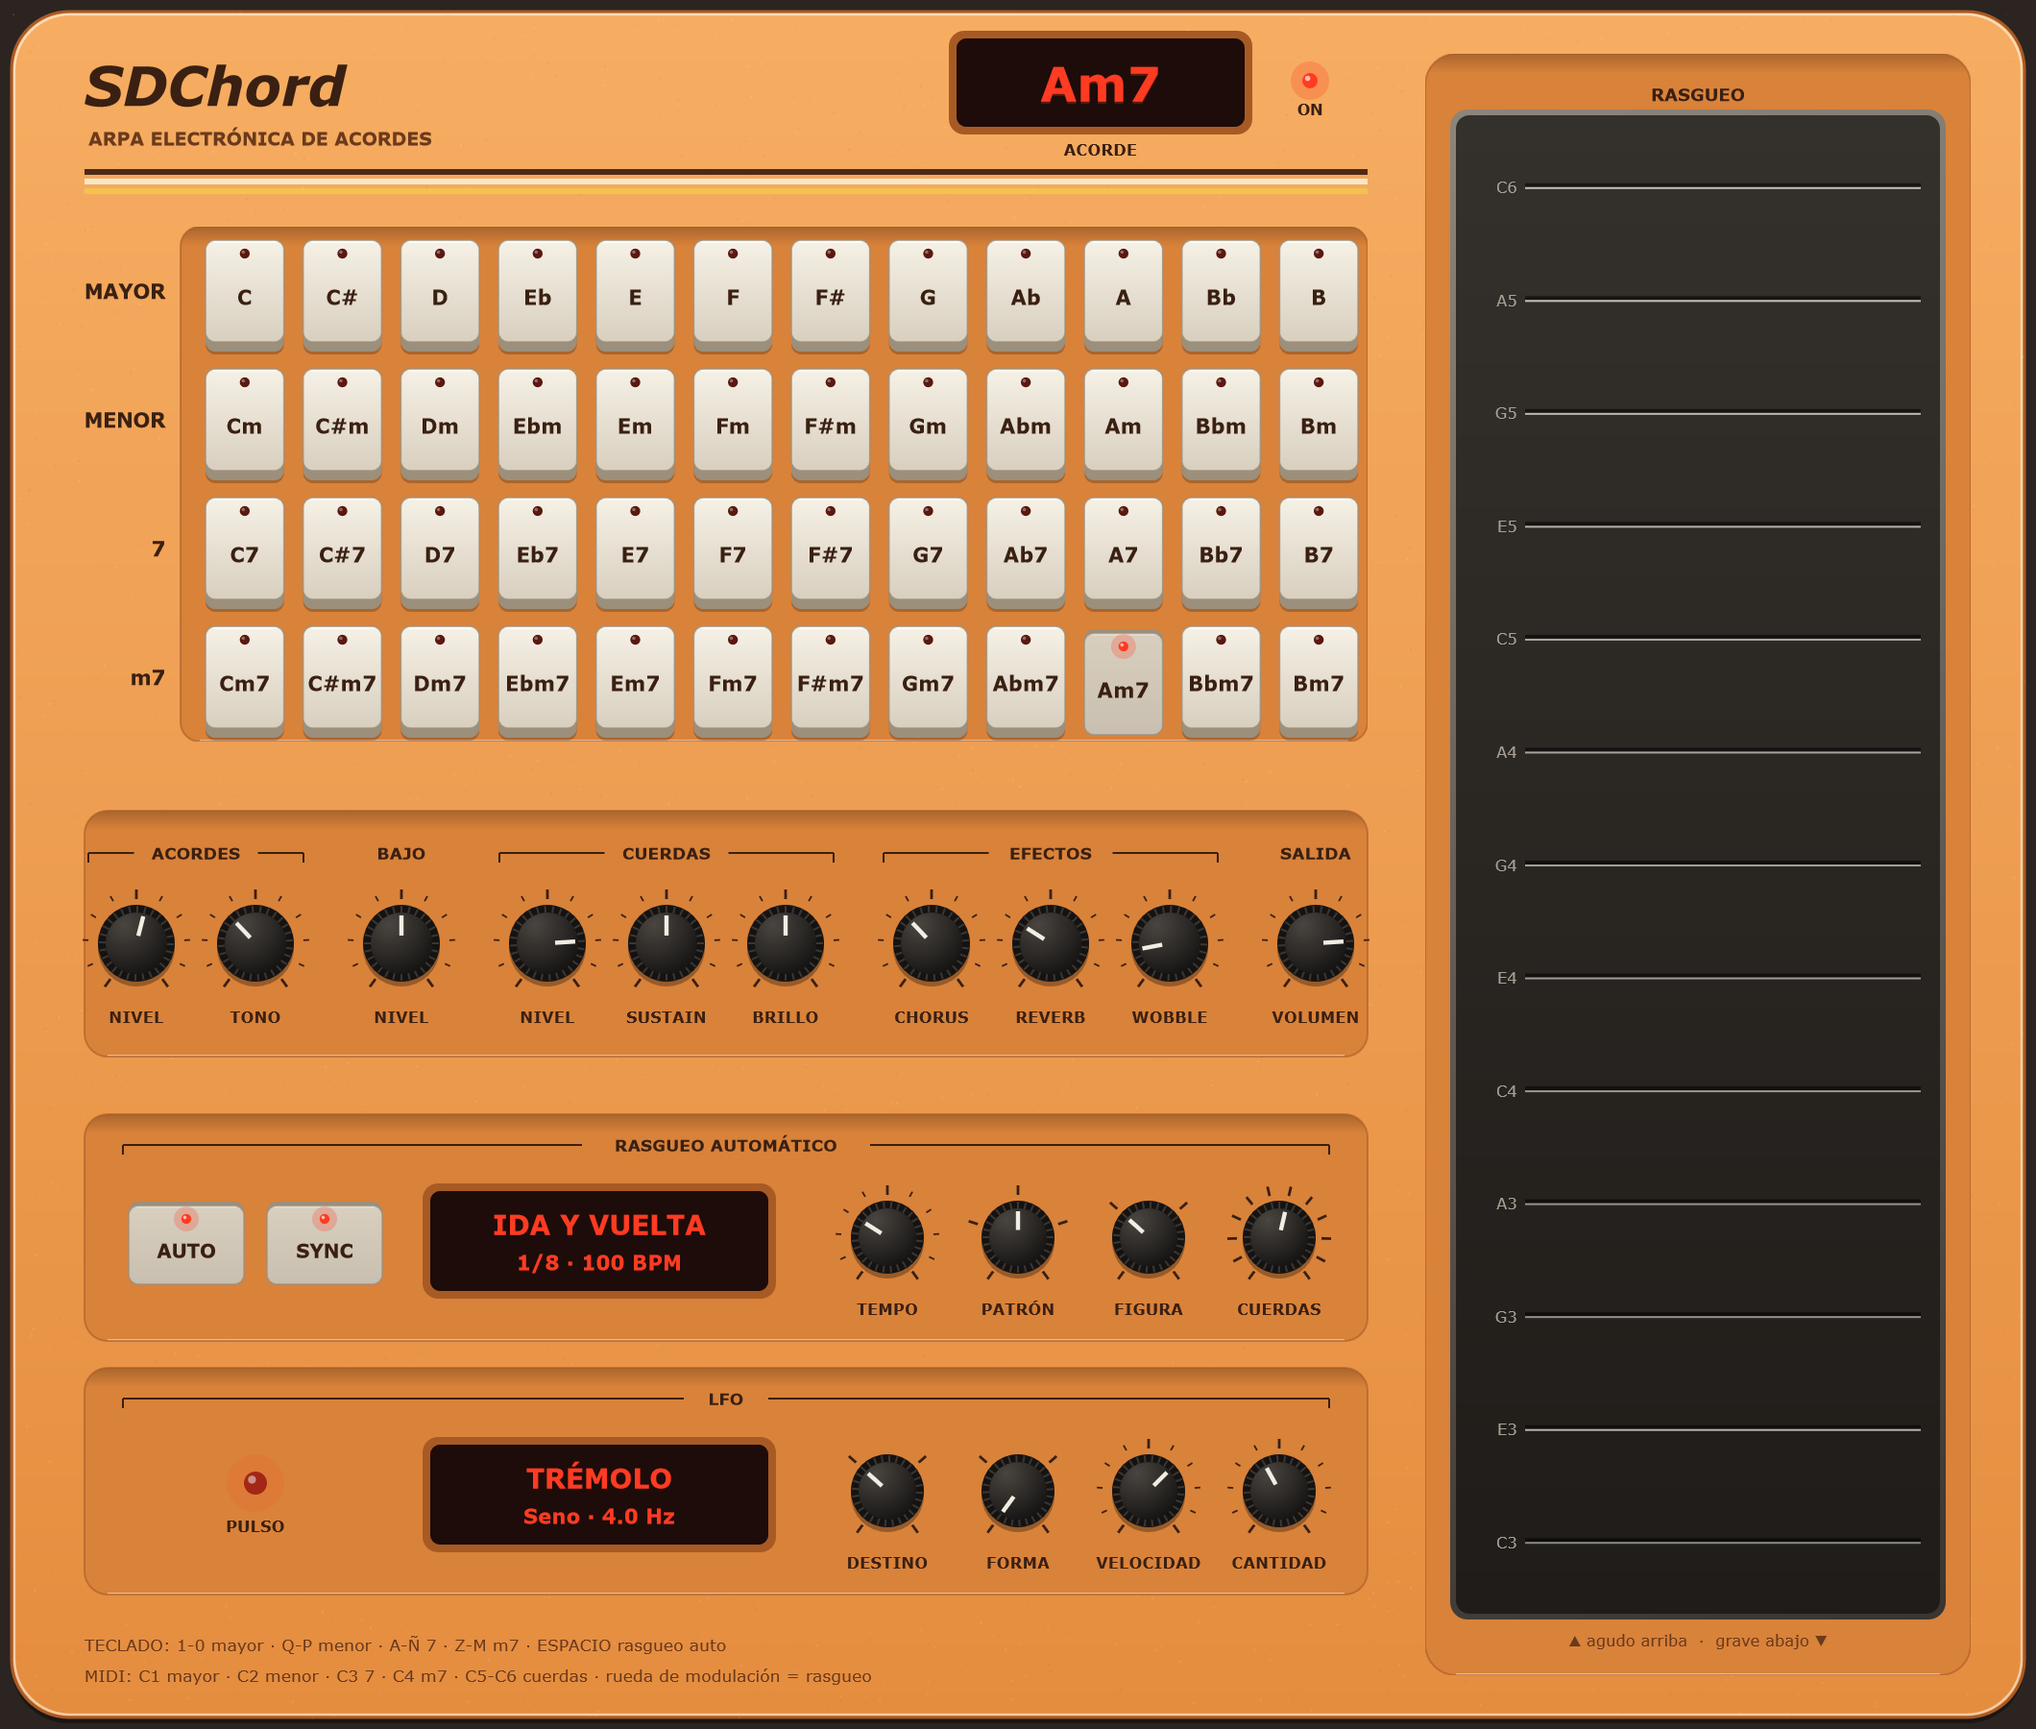
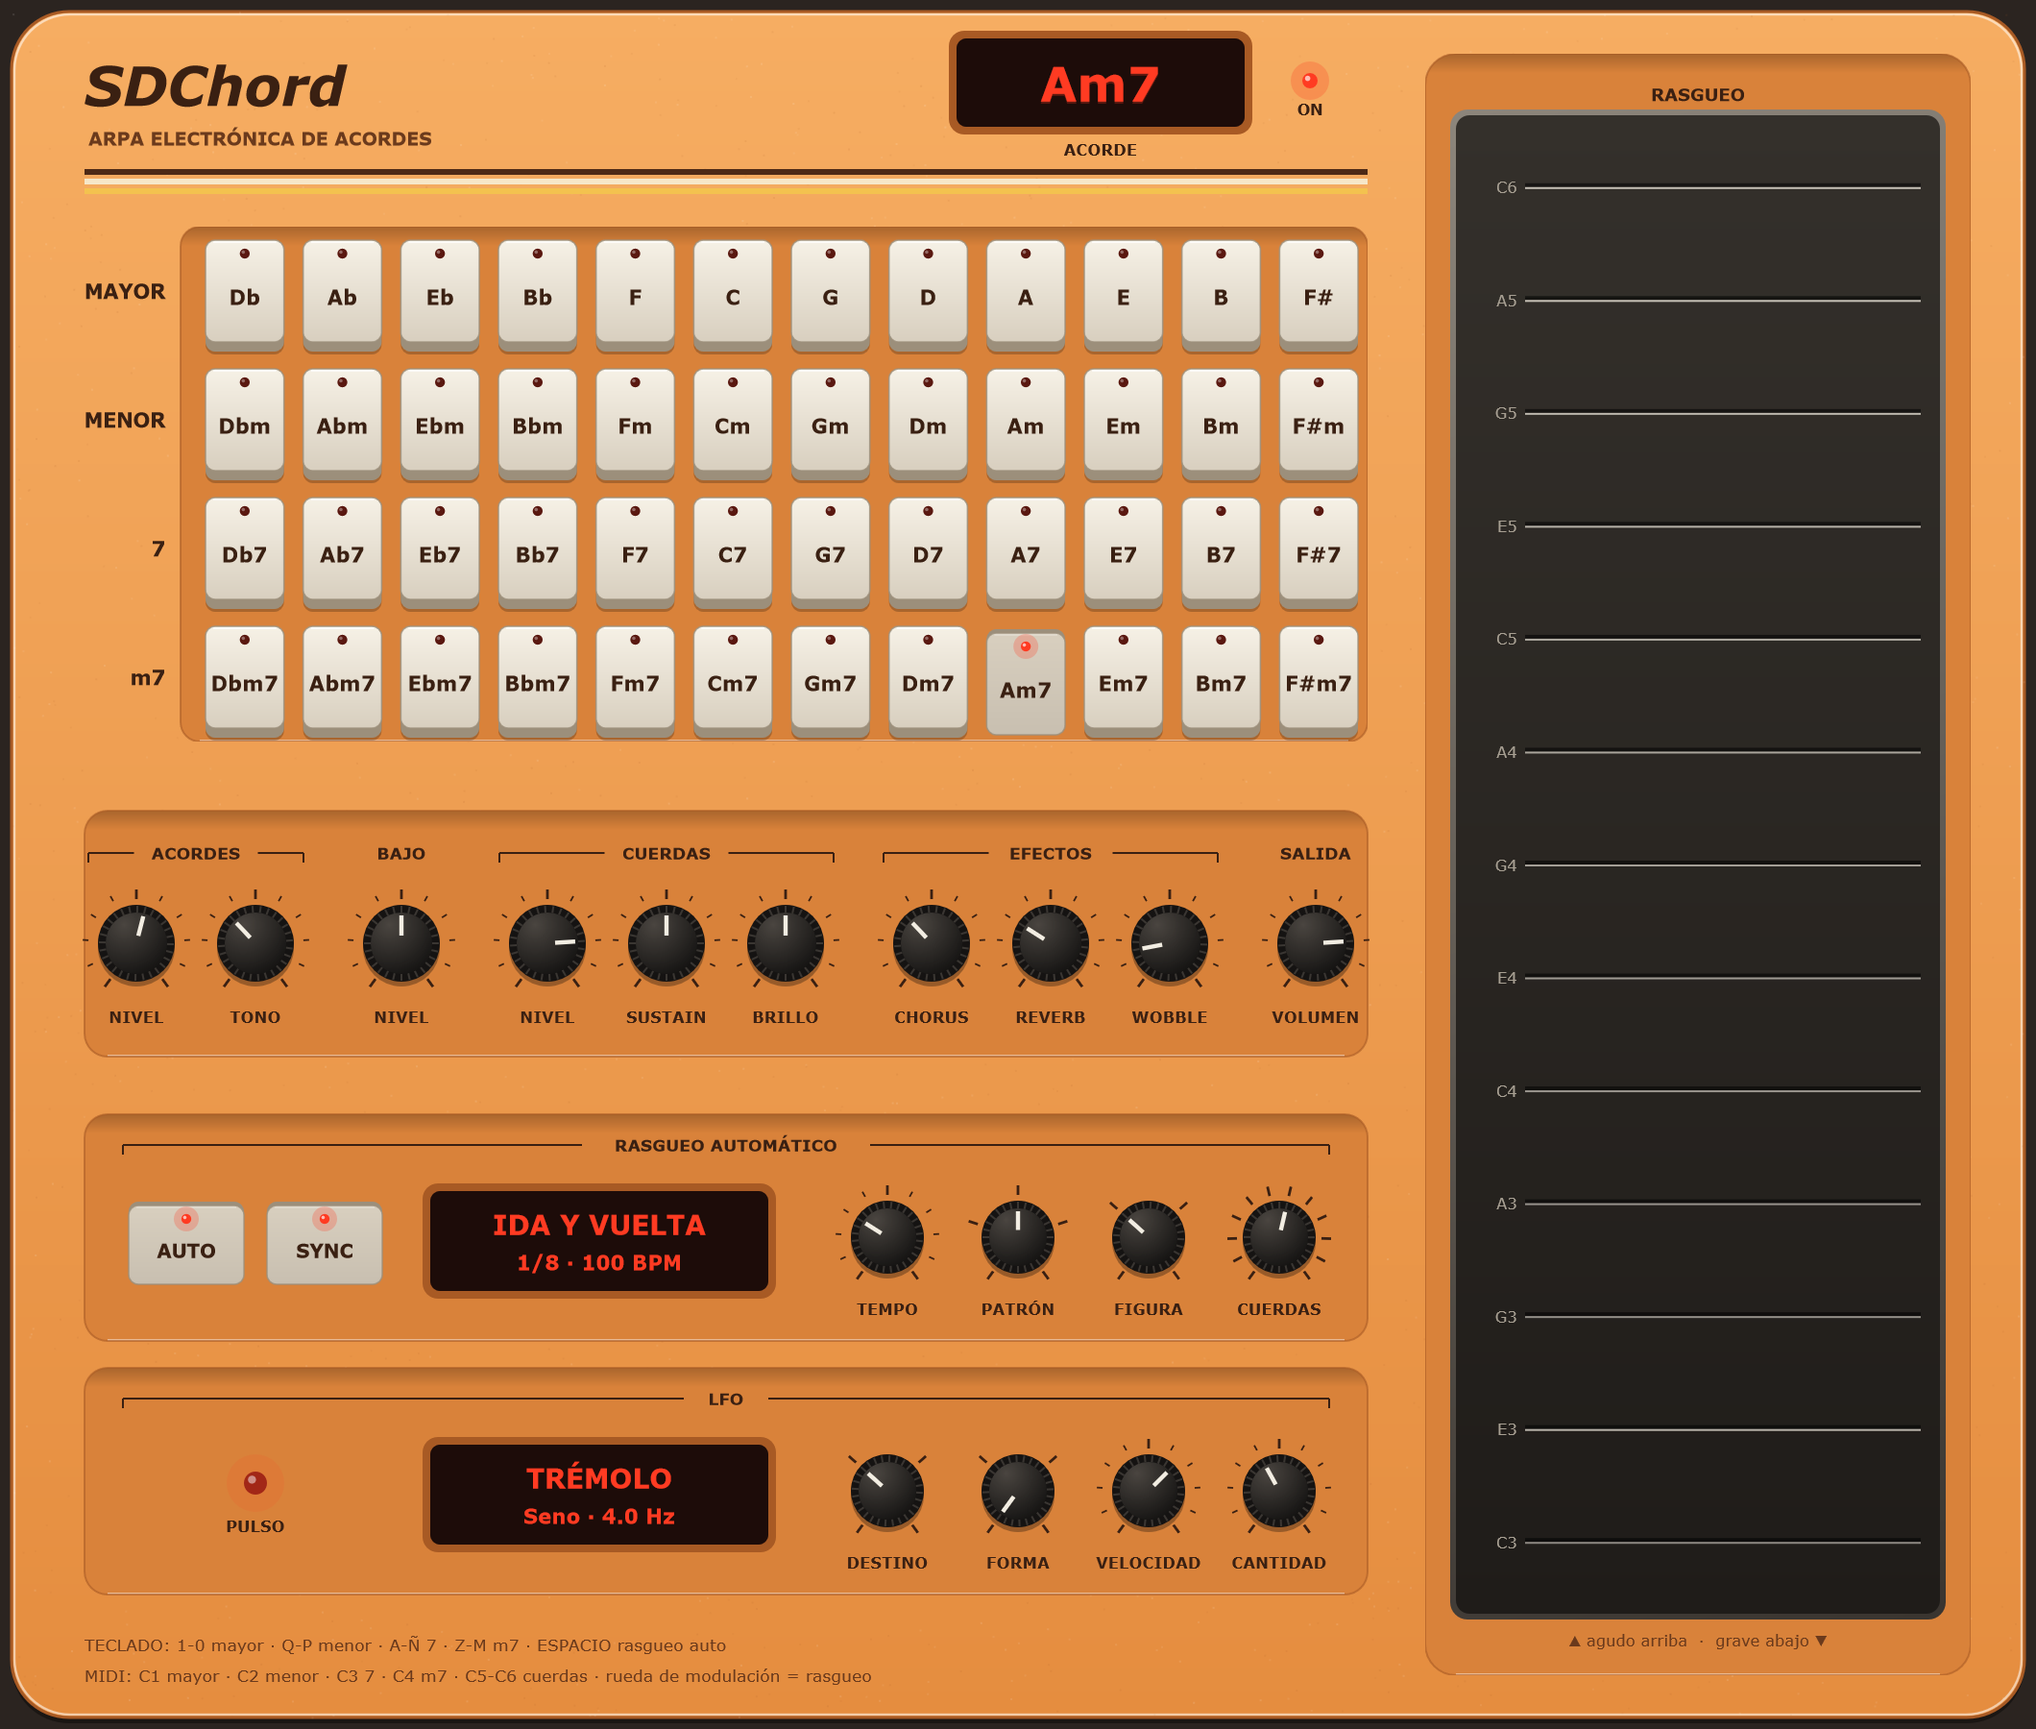
Order the chord buttons around the circle of fifths
Db Ab Eb Bb F C G D A E B F#, as on the original instrument, in the
plugin, the web page and the computer-keyboard rows. C# is now named Db.
MIDI stays chromatic. Tests check the order and that the web matches C++.

diff --git a/web/src/engine/chords.test.ts b/web/src/engine/chords.test.ts
@@ -1,8 +1,16 @@
+import { readFileSync } from 'node:fs'
 import { describe, expect, it } from 'vitest'
-import { chordName, noteName, STRINGS, stringNotes } from './chords'
+import { chordName, COLUMN_ROOTS, noteName, STRINGS, stringNotes } from './chords'
 import { chordForKey } from './keyboard'
 
 describe('chords', () => {
+  it('lays the buttons out around the circle of fifths, like the C++ side', () => {
+    const header = readFileSync(new URL('../../../dsp/include/sdchord/chords.h', import.meta.url), 'utf8')
+    const cpp = header.match(/kColumnRoots\[12\] = \{([^}]*)\}/)![1].split(',').map(Number)
+    expect(COLUMN_ROOTS).toEqual(cpp)
+    expect(COLUMN_ROOTS.map((r) => chordName(r)).join(' ')).toBe('Db Ab Eb Bb F C G D A E B F#')
+  })
+
   it('names every chord', () => {
     expect(chordName(0)).toBe('C')
     expect(chordName(12 + 9)).toBe('Am')
@@ -23,15 +31,16 @@ describe('chords', () => {
 })
 
 describe('computer keyboard', () => {
-  it('maps each row of keys to a chord type, from C', () => {
-    expect(chordForKey('Digit1')).toBe(0) // C
-    expect(chordForKey('Equal')).toBe(11) // B
-    expect(chordForKey('KeyQ')).toBe(12) // Cm
-    expect(chordForKey('KeyP')).toBe(12 + 9) // Am
-    expect(chordForKey('Semicolon')).toBe(24 + 9) // A7 (Ñ on a Spanish layout)
-    expect(chordForKey('Backslash')).toBe(24 + 11)
-    expect(chordForKey('KeyZ')).toBe(36)
-    expect(chordForKey('Slash')).toBe(36 + 9) // the bottom row ends on Am7
+  it('maps each row of keys to a chord type, in the buttons\' order', () => {
+    expect(chordForKey('Digit1')).toBe(1) // Db
+    expect(chordForKey('Digit6')).toBe(0) // C
+    expect(chordForKey('Equal')).toBe(6) // F#
+    expect(chordForKey('KeyQ')).toBe(12 + 1) // Dbm
+    expect(chordForKey('KeyP')).toBe(12 + 4) // Em
+    expect(chordForKey('Semicolon')).toBe(24 + 4) // E7 (Ñ on a Spanish layout)
+    expect(chordForKey('Backslash')).toBe(24 + 6) // F#7
+    expect(chordForKey('KeyZ')).toBe(36 + 1)
+    expect(chordForKey('Slash')).toBe(36 + 4) // the bottom row ends on Em7
     expect(chordForKey('Space')).toBeUndefined()
     expect(chordForKey('Enter')).toBeUndefined()
   })

diff --git a/web/src/engine/keyboard.ts b/web/src/engine/keyboard.ts
@@ -1,16 +1,18 @@
-// Computer keyboard: each row of keys is one chord type, left to right from C. Keys are matched by
+// Computer keyboard: each row of keys is one chord type, in the buttons' order (Db Ab Eb ... F#). Keys are matched by
 // physical position (KeyboardEvent.code), so it works the same on any keyboard layout.
+
+import { COLUMN_ROOTS } from './chords'
 
 const ROWS: string[][] = [
   ['Digit1', 'Digit2', 'Digit3', 'Digit4', 'Digit5', 'Digit6', 'Digit7', 'Digit8', 'Digit9', 'Digit0', 'Minus', 'Equal'],
   ['KeyQ', 'KeyW', 'KeyE', 'KeyR', 'KeyT', 'KeyY', 'KeyU', 'KeyI', 'KeyO', 'KeyP', 'BracketLeft', 'BracketRight'],
   ['KeyA', 'KeyS', 'KeyD', 'KeyF', 'KeyG', 'KeyH', 'KeyJ', 'KeyK', 'KeyL', 'Semicolon', 'Quote', 'Backslash'],
-  // The bottom row only has ten keys, so it stops at A minor 7.
+  // The bottom row only has ten keys, so it stops at E minor 7 (no Bm7 or F#m7 there).
   ['KeyZ', 'KeyX', 'KeyC', 'KeyV', 'KeyB', 'KeyN', 'KeyM', 'Comma', 'Period', 'Slash'],
 ]
 
 const CODES = new Map<string, number>()
-ROWS.forEach((row, type) => row.forEach((code, root) => CODES.set(code, root + 12 * type)))
+ROWS.forEach((row, type) => row.forEach((code, column) => CODES.set(code, COLUMN_ROOTS[column] + 12 * type)))
 
 /** The chord (root + 12 * type) a physical key plays, or undefined. */
 export const chordForKey = (code: string): number | undefined => CODES.get(code)

diff --git a/web/src/components/ChordGrid.tsx b/web/src/components/ChordGrid.tsx
@@ -1,5 +1,5 @@
 import { useEffect, useRef, useState } from 'react'
-import { CHORD_TYPES, ROOT_NAMES, chordName } from '../engine/chords'
+import { CHORD_TYPES, COLUMN_ROOTS, ROOT_NAMES, chordName } from '../engine/chords'
 
 interface Props {
   rowNames: string[]
@@ -95,7 +95,7 @@ export function ChordGrid({ rowNames, held, memory, latch, onPress, onRelease }:
       {Array.from({ length: CHORD_TYPES }, (_, type) => (
         <div className="chord-row" key={type}>
           <span className="row-name">{rowNames[type]}</span>
-          {Array.from({ length: 12 }, (_, root) => {
+          {COLUMN_ROOTS.map((root) => {
             const code = root + 12 * type
             const pressed = held === code || down.includes(code)
             const remembered = held < 0 && !pressed && memory === code

diff --git a/web/src/engine/chords.ts b/web/src/engine/chords.ts
@@ -6,7 +6,10 @@ export const STRINGS = 13
 export const FIRST_CHORD_NOTE = 24
 export const FIRST_STRING_NOTE = FIRST_CHORD_NOTE + 12 * CHORD_TYPES
 
-export const ROOT_NAMES = ['C', 'C#', 'D', 'Eb', 'E', 'F', 'F#', 'G', 'Ab', 'A', 'Bb', 'B']
+export const ROOT_NAMES = ['C', 'Db', 'D', 'Eb', 'E', 'F', 'F#', 'G', 'Ab', 'A', 'Bb', 'B']
+/** The buttons' left-to-right order, as on the original instrument: around the circle of fifths
+    (Db Ab Eb Bb F C G D A E B F#). Mirrors kColumnRoots in chords.h; MIDI stays chromatic. */
+export const COLUMN_ROOTS = [1, 8, 3, 10, 5, 0, 7, 2, 9, 4, 11, 6]
 const SUFFIXES = ['', 'm', '7', 'm7']
 const INTERVALS = [
   [0, 4, 7],

diff --git a/plugin/PluginEditor.cpp b/plugin/PluginEditor.cpp
@@ -17,7 +17,7 @@ const juce::Colour plateTop { 0xff34302b }, plateBottom { 0xff1f1c19 }, ridge { 
 const juce::Colour ringing { 0xffd9d3c7 }; // the ridge of a string that is sounding
 } // namespace Colours
 
-const char* const rootNames[] = { "C", "C#", "D", "Eb", "E", "F", "F#", "G", "Ab", "A", "Bb", "B" };
+const char* const rootNames[] = { "C", "Db", "D", "Eb", "E", "F", "F#", "G", "Ab", "A", "Bb", "B" };
 const char* const suffixes[] = { "", "m", "7", "m7" };
 const char* const rowNames[] = { "MAYOR", "MENOR", "7", "m7" };
 
@@ -152,20 +152,20 @@ void SDChordLook::drawToggleButton(juce::Graphics& g, juce::ToggleButton& b, boo
 
 // ---- chord grid --------------------------------------------------------------------------------
 
-juce::Rectangle<float> ChordGrid::cellBounds(int root, int type) const
+juce::Rectangle<float> ChordGrid::cellBounds(int column, int type) const
 {
     const float w = ((float) getWidth() - labelWidth) / 12.0f;
     const float h = (float) getHeight() / (float) sdchord::kChordTypes;
-    return { labelWidth + w * (float) root, h * (float) type, w, h };
+    return { labelWidth + w * (float) column, h * (float) type, w, h };
 }
 
 int ChordGrid::codeAt(juce::Point<float> p) const
 {
     if (p.x < labelWidth || !getLocalBounds().toFloat().contains(p))
         return -1;
-    const int root = juce::jlimit(0, 11, (int) ((p.x - labelWidth) / (((float) getWidth() - labelWidth) / 12.0f)));
+    const int column = juce::jlimit(0, 11, (int) ((p.x - labelWidth) / (((float) getWidth() - labelWidth) / 12.0f)));
     const int type = juce::jlimit(0, sdchord::kChordTypes - 1, (int) (p.y / ((float) getHeight() / sdchord::kChordTypes)));
-    return root + 12 * type;
+    return sdchord::kColumnRoots[column] + 12 * type;
 }
 
 void ChordGrid::paint(juce::Graphics& g)
@@ -179,12 +179,12 @@ void ChordGrid::paint(juce::Graphics& g)
         g.setFont(font(12.5f, "Bold"));
         g.drawText(rowNames[type], juce::Rectangle<float>(0, row.getY(), labelWidth - 16, row.getHeight()), juce::Justification::centredRight);
 
-        for (int root = 0; root < 12; ++root)
+        for (int column = 0; column < 12; ++column)
         {
-            const int code = root + 12 * type;
+            const int code = sdchord::kColumnRoots[column] + 12 * type;
             const bool down = code == held;
             const bool remembered = held < 0 && code == memory;
-            const auto key = cellBounds(root, type).reduced(5.0f, 7.0f);
+            const auto key = cellBounds(column, type).reduced(5.0f, 7.0f);
             // The LED is lit while the chord is held, and dim for the chord the strings remember.
             drawKey(g, key, down, chordName(code), down ? 1.0f : remembered ? 0.35f : 0.0f, key.getWidth() < 40 ? 11.5f : 13.0f);
         }
@@ -478,12 +478,12 @@ void SDChordEditor::pollKeys()
     const auto& rows = keyRows();
     for (int type = 0; type < sdchord::kChordTypes; ++type)
     {
-        for (int root = 0; root < 12; ++root)
+        for (int column = 0; column < 12; ++column)
         {
-            const auto key = rows[(size_t) type][(size_t) root];
+            const auto key = rows[(size_t) type][(size_t) column];
             if (key == 0)
                 continue;
-            const int code = root + 12 * type;
+            const int code = sdchord::kColumnRoots[column] + 12 * type;
             const bool down = active && juce::KeyPress::isKeyCurrentlyDown((int) key);
             if (down == keysDown[(size_t) code])
                 continue;

diff --git a/dsp/include/sdchord/chords.h b/dsp/include/sdchord/chords.h
@@ -89,6 +89,11 @@ inline std::array<int, kStrings> stringNotes(const Chord& chord)
 //   C5-C6 (72-84)  strings 1-13 of the strum plate
 //   CC1 (mod wheel) sweeps across the strings, like a finger on the plate.
 
+/** The chord buttons' left-to-right order, as on the original instrument: around the circle of fifths,
+    Db Ab Eb Bb F C G D A E B F#, so neighbouring buttons are the chords that go together. MIDI stays
+    chromatic (C1 = C major) for playing from a DAW. */
+constexpr int kColumnRoots[12] = { 1, 8, 3, 10, 5, 0, 7, 2, 9, 4, 11, 6 };
+
 constexpr int kFirstChordNote = 24;
 constexpr int kFirstStringNote = kFirstChordNote + 12 * kChordTypes; // 72
 

diff --git a/dsp/tests/dsp_tests.cpp b/dsp/tests/dsp_tests.cpp
@@ -122,6 +122,19 @@ TEST(pad_voicing_stays_in_one_octave_range)
         }
 }
 
+TEST(buttons_run_around_the_circle_of_fifths)
+{
+    std::array<bool, 12> seen {};
+    for (int col = 0; col < 12; ++col)
+    {
+        seen[(size_t) kColumnRoots[col]] = true;
+        if (col > 0)
+            CHECK((kColumnRoots[col] - kColumnRoots[col - 1] + 12) % 12 == 7); // each a fifth above the last
+    }
+    CHECK(std::all_of(seen.begin(), seen.end(), [](bool s) { return s; }));
+    CHECK(kColumnRoots[0] == 1 && kColumnRoots[5] == 0 && kColumnRoots[11] == 6); // Db ... C ... F#
+}
+
 TEST(midi_layout_round_trips)
 {
     Chord c;

diff --git a/plugin/PluginEditor.h b/plugin/PluginEditor.h
@@ -32,7 +32,7 @@ public:
 
 private:
     static constexpr float labelWidth = 64.0f;
-    juce::Rectangle<float> cellBounds(int root, int type) const;
+    juce::Rectangle<float> cellBounds(int column, int type) const;
     int codeAt(juce::Point<float>) const;
     void press(int source, int code);
     void release(int source);

diff --git a/README.md b/README.md
@@ -21,7 +21,7 @@
 
 ## Cómo se toca
 
-- **Botones de acorde:** 12 tonalidades × 4 tipos (mayor, menor, 7 y m7). Mientras mantenés uno, suena su acorde como un colchón suave tipo órgano, con la fundamental en el bajo. Deslizá hasta otro botón para cambiar de acorde; si lo soltás, vuelve el que tenías apretado antes.
+- **Botones de acorde:** 12 tonalidades × 4 tipos (mayor, menor, 7 y m7), ordenadas como en el instrumento original: por quintas, Db Ab Eb Bb F C G D A E B F#, así los acordes que van juntos quedan al lado. Mientras mantenés uno, suena su acorde como un colchón suave tipo órgano, con la fundamental en el bajo. Deslizá hasta otro botón para cambiar de acorde; si lo soltás, vuelve el que tenías apretado antes.
 - **Franja de rasgueo:** 13 cuerdas, la más grave abajo. Tocá una para pulsarla o arrastrá sobre varias para rasguear; cuanto más rápido, más fuerte. Cada cuerda toca la siguiente nota del acorde, así que todo rasgueo suena afinado. Las cuerdas se quedan con el último acorde aunque sueltes el botón.
 - **Sonido:** las cuerdas son una voz FM de dos operadores cuyo brillo se apaga antes que el cuerpo: arrancan cristalinas y se van apagando suaves. Hay controles de niveles, sustain y brillo de las cuerdas, chorus, reverb y *wobble*, una desafinación lenta tipo cinta.
 

diff --git a/README.en.md b/README.en.md
@@ -21,7 +21,7 @@
 
 ## How it plays
 
-- **Chord buttons:** 12 roots × 4 chord types (major, minor, 7, m7). While you hold one, its chord sounds as a soft organ-like pad with the root in the bass. Slide onto another button to change chords; let go and the previous held chord comes back.
+- **Chord buttons:** 12 roots × 4 chord types (major, minor, 7, m7), laid out as on the original instrument: around the circle of fifths, Db Ab Eb Bb F C G D A E B F#, so chords that go together sit side by side. While you hold one, its chord sounds as a soft organ-like pad with the root in the bass. Slide onto another button to change chords; let go and the previous held chord comes back.
 - **Strum plate:** 13 strings, lowest at the bottom. Touch a string to pluck it or drag across them to strum; faster strums play louder. Each string plays the next tone of the current chord, so every strum is in tune. The strings keep the last chord after you let go of its button.
 - **Sound:** strings are a two-operator FM voice whose brightness fades faster than its body, so they start glassy and ring out mellow. Controls cover levels, string sustain and brightness, chorus, reverb and *wobble*, a tape-like pitch drift.
 
